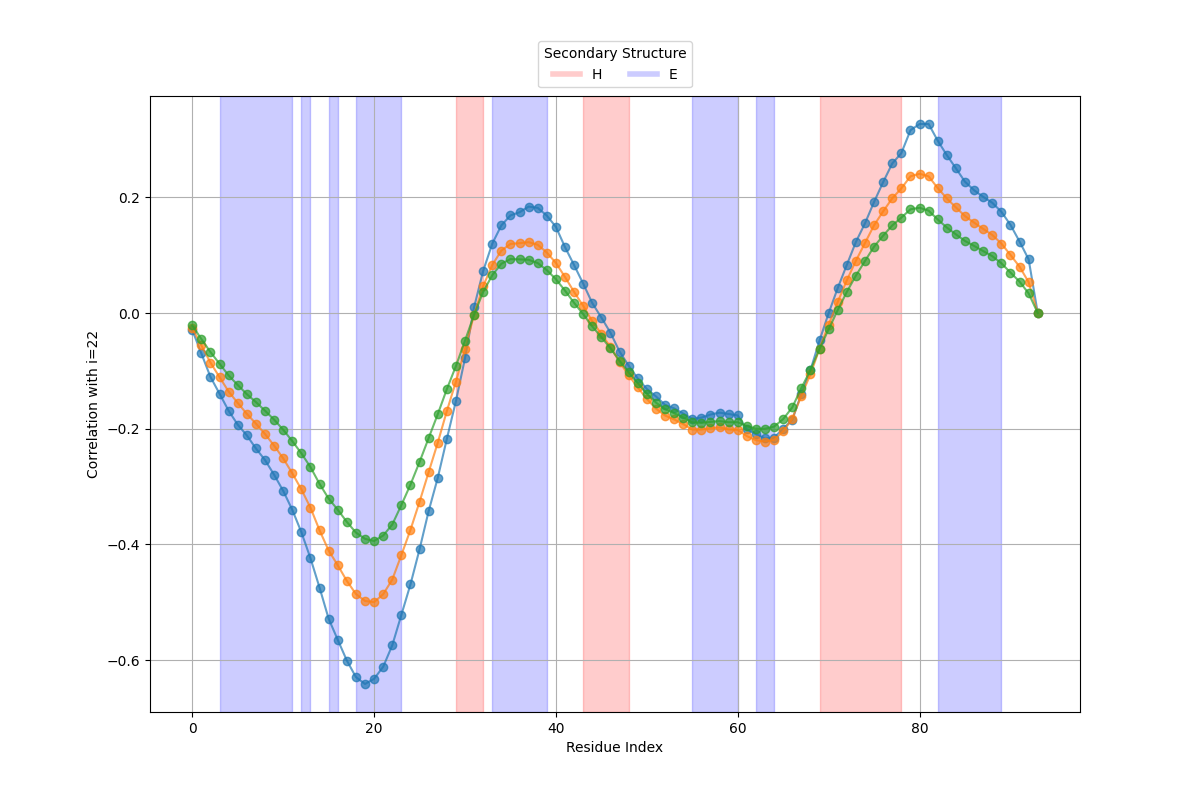
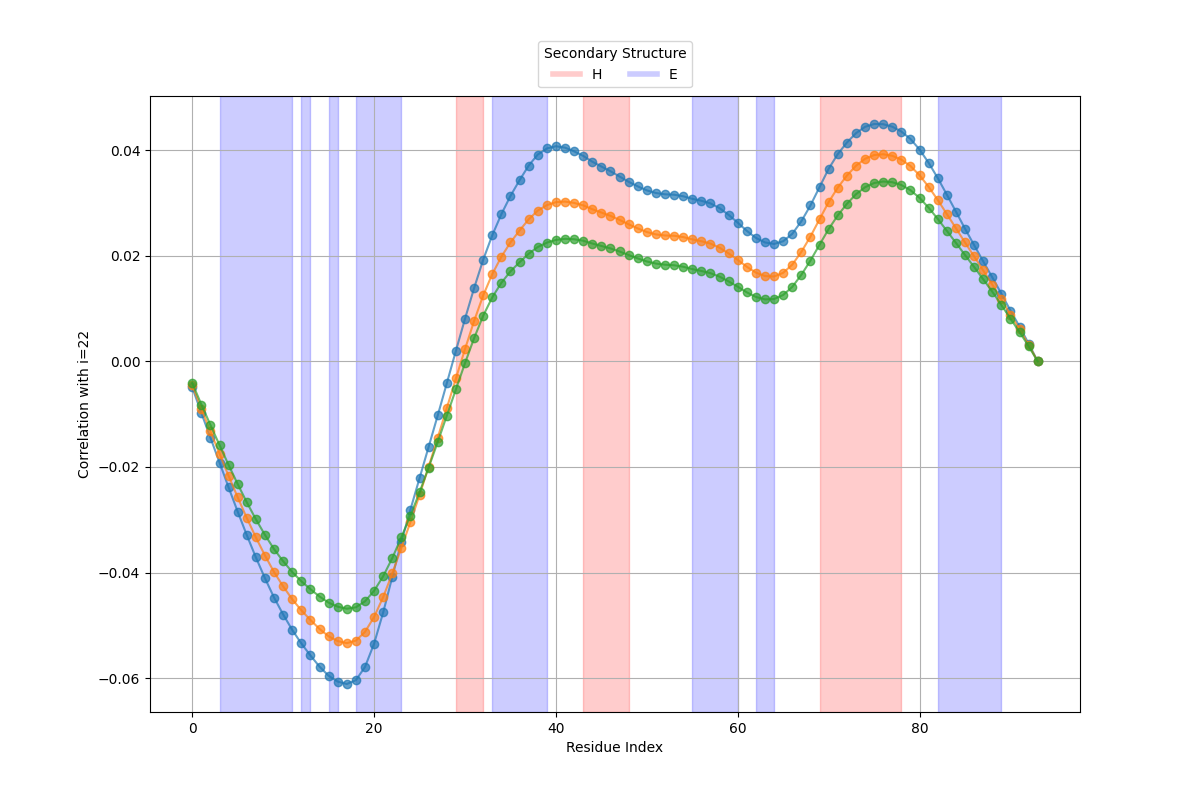
qdj

diff --git a/STATIC/comprensione.py b/STATIC/comprensione.py
@@ -121,16 +121,6 @@ class TimeCorrelation(BaseCorrelationAnalysis):
             else:
                 transfer_entropy_matrix[i,j,:] = self.transfer_entropy(i, j, t_subset)
         return transfer_entropy_matrix[i,:,:]
-    def compute_residual_transfer_entropy_matrix_donatore(self, t, i, time_idx):
-        n = self.u.shape[0]
-        t_subset=t
-        transfer_entropy_matrix =  np.zeros((n, n, len(t_subset)))
-        for j in range(n):
-            if j==i:
-                transfer_entropy_matrix[i, j, :]=0
-            else:
-                transfer_entropy_matrix[i, j, :] = self.transfer_entropy(j, i, t_subset)
-        return transfer_entropy_matrix[i,:,:]
     
     def transfer_entropy(self, i, j, t):
         C_ii_0 = self.time_correlation(i, i,t=[0])
@@ -149,10 +139,6 @@ class TimeCorrelation(BaseCorrelationAnalysis):
     def plot_residual_transfer_entropy_vs_j_accettore(self, i, t, time_idx,nome):
         transfer_entropy_matrix = self.compute_residual_transfer_entropy_matrix_accettore(t, i, time_idx)
         _plot_with_secondary_structure(df,transfer_entropy_matrix, f'Transfer Entropy with i={i}',nome, f'Transfer Entropy TE_ij for i={i} as a function of j ')
-
-    def plot_residual_transfer_entropy_vs_j_donatore(self, i, t, time_idx,nome):
-        transfer_entropy_matrix = self.compute_residual_transfer_entropy_matrix_donatore(t, i, time_idx)
-        _plot_with_secondary_structure(df,transfer_entropy_matrix, f'Transfer Entropy with i={i}',nome, f'Transfer Entropy TE_ji for i={i} as a function of j')
 
 
 
@@ -412,7 +398,7 @@ contatti_diagonale = kirchhoff_matrix.diagonal()
 
 contatti_somma_righe = kirchhoff_matrix.sum(axis=1)
 contatti = contatti_diagonale/2
-temperatura = np.where(contatti >= 5, 0.5, 1)
+temperatura = np.where(contatti >= 5, 1, 1)
 G = visualizer.create_and_print_graph(truncated=True, radius=8.0, plot=False, peso=20)  # Adjust radius as needed
 analyzer = GraphMatrixAnalyzer(G)
 kirchhoff_matrix = analyzer.get_kirchhoff_matrix()
@@ -433,79 +419,12 @@ plt.savefig(f'images/{stringa}/2_temperature_cutoff/temperatures.png')
 
 B=np.sqrt(temperatura)
 B = np.diag(B)
-
+B[0, 0] = 100
+print(B)
 lambdaa, U = np.linalg.eig(kirchhoff_matrix)
 BBT = B @ B.T
 Q = U @ BBT  @ U.T
 
 
+Z
 
-# Definisci il range di tempo per le autocorrelazioni back e forward
-t_back = np.linspace(-2, 0, 300)  # Time points per autocorrelazione back
-t_forward = np.linspace(0., 2, 300)  # Time points per autocorrelazione forward
-
-# Indici di esempio (aggiungere qui altri indici se necessario)
-indices = [(20, 75), (20, 38), (20, 21)]
-
-# Inizializza la figura
-plt.figure(figsize=(12, 6))
-
-# Calcola e plottare le autocorrelazioni per ogni coppia di indici
-for i, j in indices:
-    # Calcola le autocorrelazioni back e forward
-    time_correlation_back = TimeCorrelation(u=U, lambdas=lambdaa, mu=0, sec_struct_data=df, stringa=stringa, Q=Q)
-    autocorrelations_back = time_correlation_back.time_correlation(i, j, t_back)
-
-    time_correlation_forward = TimeCorrelation(u=U, lambdas=lambdaa, mu=0, sec_struct_data=df, stringa=stringa, Q=Q)
-    autocorrelations_forward = time_correlation_forward.time_correlation(i, j, t_forward)
-
-    # Plottiamo le autocorrelazioni
-    plt.plot(t_back, autocorrelations_back, label=f'Autocorrelazione Backward ({i}, {j})', linestyle='-', color='blue')
-    plt.plot(t_forward, autocorrelations_forward, label=f'Autocorrelazione Forward ({i}, {j})', linestyle='--', color='orange')
-
-# Aggiungi titoli e etichette
-plt.title('Autocorrelazione Forward e Backward per diversi indici')
-plt.xlabel('Tempo')
-plt.ylabel('Autocorrelazione')
-plt.legend()
-plt.grid()
-
-# Creazione della directory se non esiste
-output_dir = f'images/{stringa}/2_temperature_cutoff/Time_correlations/'
-if not os.path.exists(output_dir):
-    os.makedirs(output_dir)
-
-# Salva il grafico
-plt.savefig(f'{output_dir}/correlation_combined.png')
-
-# Chiudi il grafico
-plt.close()
-
-t = np.linspace(0., 2, 300)  # Time points
-time_correlation = TimeCorrelation(u = U, lambdas=lambdaa, mu=0, sec_struct_data=df,stringa=stringa,Q=Q)
-autocorrelations = time_correlation.time_correlation(20, 75, t)  # Example indices
-
-normalized_autocorrelations = autocorrelations / autocorrelations[0]  # Normalize example
-
-
-
-
-
-#plot_beta_factors(df, stringa,Q,lambdaa,U)
-normalized_autocorrelations = np.zeros((94, len(t)))
-for i in range(94):
-    C_ii_t = time_correlation.time_correlation(i, i, t)
-    normalized_autocorrelations[i, :] = time_correlation.normalize_autocorrelations(C_ii_t)
-tau_mean, taus = time_correlation.estimate_tau_2(t, normalized_autocorrelations)
-print(f"Tempo caratteristico medio: {tau_mean:.4f}")
-time_correlation.plot_tau_histogram( t, normalized_autocorrelations)
-time_correlation.plot_autocorrelation_fits(t, normalized_autocorrelations)
-
-lista = np.array([20,21,22, 23, 24])
-t=[tau_mean-1/2*tau_mean,tau_mean,tau_mean+1/2*tau_mean]
-s=[0,0,0]
-time_idx = 0
-for i in range(len(lista)):
-    plot_residual_correlation_vs_j(df=df,i=lista[i], t=t,s=s, time_idx=time_idx,nome=stringa,Q=Q,lambdaa=lambdaa,U=U)
-    time_correlation.plot_residual_transfer_entropy_vs_j_accettore(lista[i],t, time_idx,stringa)
-    time_correlation.plot_residual_transfer_entropy_vs_j_donatore(lista[i], t, time_idx,stringa)
